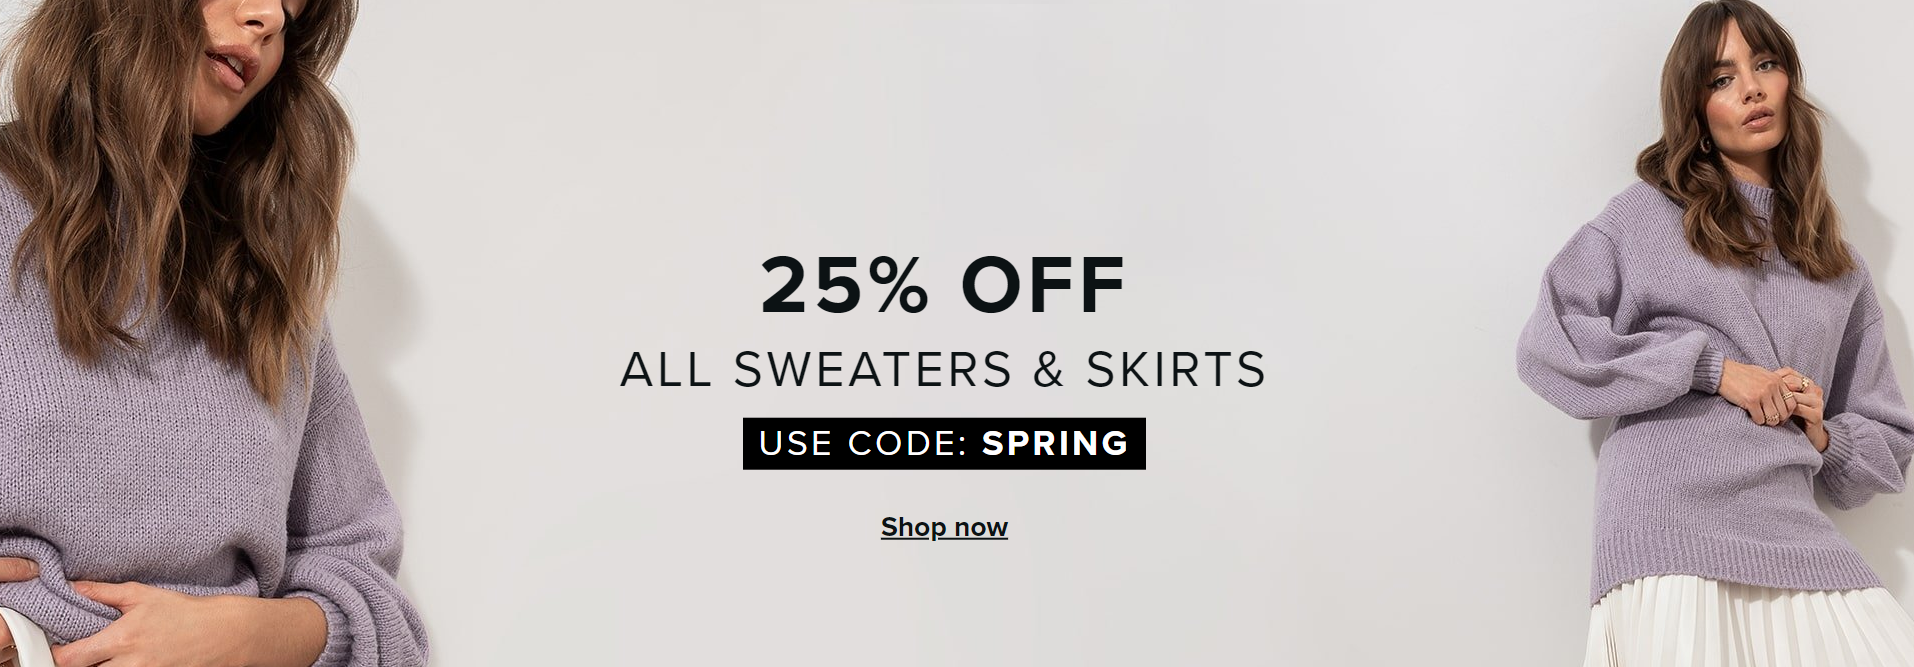
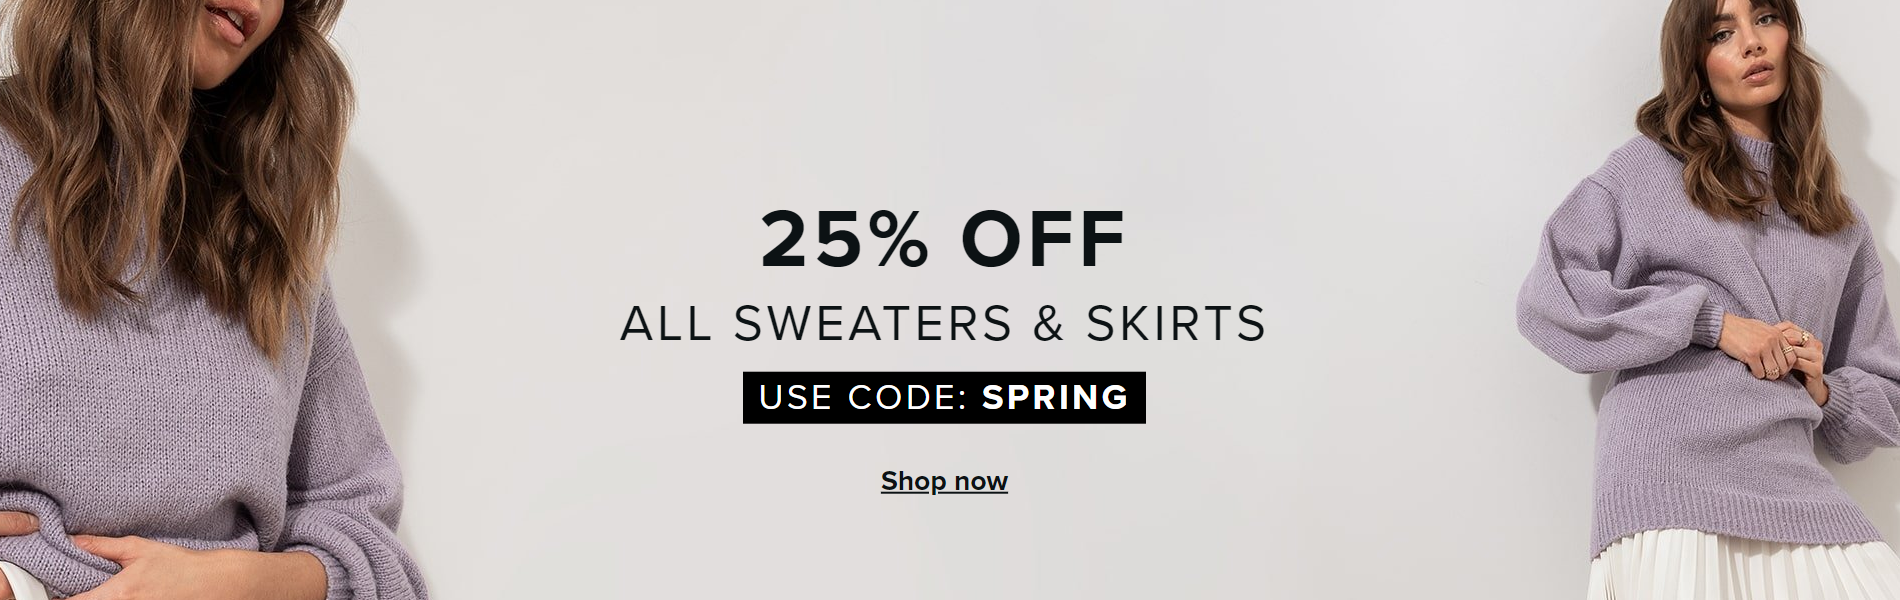
調整banner圖片尺寸及swiper樣式

diff --git a/src/components/SwiperBanner.jsx b/src/components/SwiperBanner.jsx
@@ -9,17 +9,16 @@ import "swiper/css/navigation";
 import "swiper/css/pagination";
 import "@/assets/css/swiperStyle.css";
 
-function Banner() {
+function SwiperBanner() {
   return (
     <>
       <Swiper
         modules={[Navigation, Pagination, A11y, Autoplay]}
+        className="z-10"
         spaceBetween={50}
         slidesPerView={1} //每頁顯示幾張
         navigation
-        Autoplay
         pagination={{ clickable: true }}
-        a11y={true}
         loop={true}
         autoplay={{
           delay: 3000, // 自動播放延遲 3 秒
@@ -37,4 +36,4 @@ function Banner() {
   );
 }
 
-export default Banner;
+export default SwiperBanner;

diff --git a/src/views/Home.jsx b/src/views/Home.jsx
@@ -1,11 +1,13 @@
 import Header from "@/components/Header";
-import Banner from "@/components/Banner";
+import SwiperBanner from "@/components/SwiperBanner";
+import List from "@/components/List";
 
 function Home() {
   return (
     <>
       <Header />
-      <Banner />
+      <SwiperBanner />
+      <List />
     </>
   );
 }

diff --git a/src/assets/css/swiperStyle.css b/src/assets/css/swiperStyle.css
@@ -3,9 +3,9 @@
   color: white;
 }
 
-.swiper-button-prev:hover,
-.swiper-button-next:hover {
-  color: #ffb6c1;
+.swiper-button-prev::after,
+.swiper-button-next::after {
+  font-size: 30px;
 }
 
 .swiper-pagination-bullet-active {
